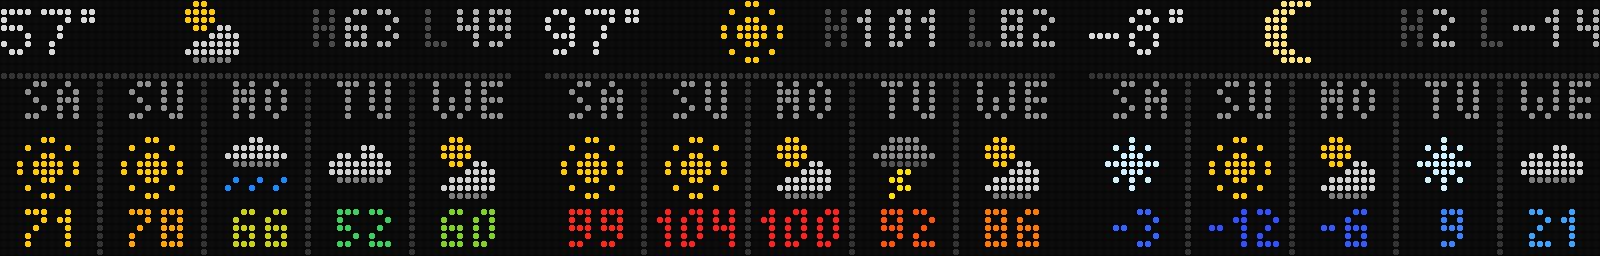
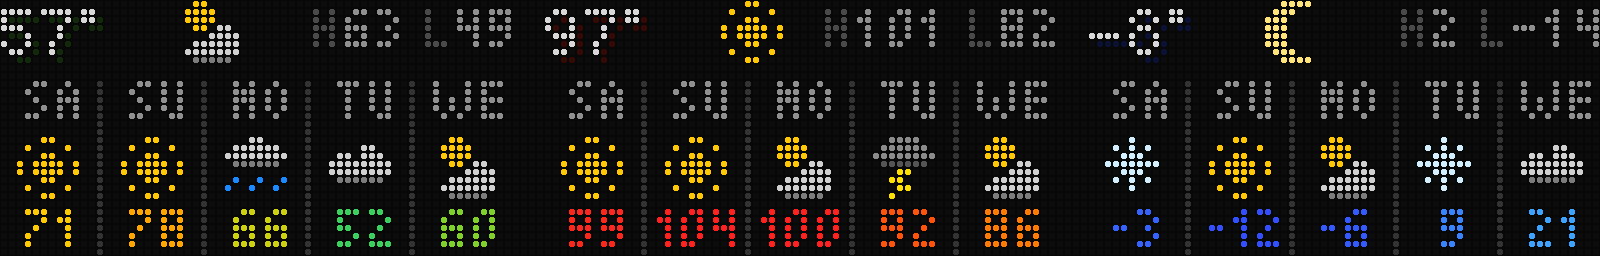
Board: 5-day top row shadow, dimmer high/low, no rule
The current temperature (and its degree sign) gets a 1px down-right
shadow in its temperature color at 20%, as on the conditions screen. The
high/low numbers drop to grey #8f8f8f. The row 9 rule is removed; the
day dividers stand alone again.

Claude-Session: https://claude.ai/code/session_01A3rhig7LG9zSFWymE8NacA

diff --git a/server/board/draw.test.js b/server/board/draw.test.js
@@ -498,14 +498,20 @@ test('weather 5-day: today on top, five day columns between dividers; a warning 
   const rad = (w) => ({ on: false, frames: [], ft: [], timeBox: [40, 0, 24, 22], split: false, wx: w });
   const f = draw.render({ now, bright: 100, warn: null, radar: rad(wx) }, { screen: 'weather', now, frames: {} });
   assert.ok(count(f, draw.C.label, 0, 0, 20, 7) > 20, 'current temperature in label white');
+  // Its shadow: 1px down-right, 20% of the temperature color, only where the
+  // white doesn't cover it (57 is green-ish).
+  const shadow = [];
+  for (let y = 0; y <= 8; y++) for (let x = 0; x <= 20; x++) { const c = f.get(x, y); if (c.some((v) => v) && hex(c) !== draw.C.label) shadow.push(c); }
+  assert.ok(shadow.length > 5, 'shadow pixels');
+  for (const c of shadow) assert.ok(c[1] > c[0] && Math.max(...c) < 60, `dim green shadow ${c}`);
+  assert.ok(count(f, '#000000', 0, 7, 20, 7) < 21, 'shadow on row 7, under the digits');
+  assert.equal(count(f, '#000000', 0, 8, 63, 8), 64, 'row 8 clear');
   assert.equal(hex(f.get(23, 1)), '#ffc800', 'icon at x22');
-  assert.ok(count(f, '#b0b0b0', 34, 1, 63, 5) > 15, 'high/low numbers');
+  assert.ok(count(f, draw.C.grey, 34, 1, 63, 5) > 15, 'high/low numbers grey');
   assert.ok(count(f, '#4a4a4a', 34, 1, 63, 5) > 5, 'dim H/L letters');
-  assert.ok(count(f, '#b0b0b0', 61, 1, 63, 5) > 0, 'right-aligned to x63');
+  assert.ok(count(f, draw.C.grey, 61, 1, 63, 5) > 0, 'right-aligned to x63');
   for (const x of [12, 25, 38, 51]) for (let y = 10; y <= 31; y++) assert.equal(hex(f.get(x, y)), draw.C.divider, `divider ${x},${y}`);
-  for (let x = 0; x < 64; x++) assert.equal(hex(f.get(x, 9)), draw.C.divider, `rule col ${x}`);
-  assert.equal(count(f, draw.C.divider, 0, 0, 63, 8), 0, 'row 8 clear under the top bar');
-  for (let x = 0; x < 64; x++) assert.deepEqual(f.get(x, 8), [0, 0, 0], `margin col ${x}`);
+  assert.equal(count(f, draw.C.divider, 0, 0, 63, 9), 0, 'no horizontal rule');
   for (let i = 0; i < 5; i++) {
     const x0 = i * 13, x1 = x0 + 11;
     assert.ok(count(f, draw.C.grey, x0, 11, x1, 15) > 8, `day ${i} label`);

diff --git a/server/board/draw.js b/server/board/draw.js
@@ -755,12 +755,13 @@
 
     // ---- 5-day layout (wxView '5day'; mockup docs/board/mockups/weather/5day-final) ----
     // The weather screen without rain when wx carries `days`. Today on rows
-    // 0-7: the temperature (5x7, label white, small degree sign), the icon at x22, `H63 L49` right-aligned (letters dim, numbers
-    // light). Below, a rule on row 9 (row 8 kept clear of the icon) and five
-    // 13px day columns split by dividers hanging from it on rows 10-31:
+    // 0-7: the temperature (5x7, label white, small degree sign, 1px
+    // temperature-colored shadow), the icon at x22, `H63 L49` right-aligned
+    // (letters dim, numbers grey). Below, five 13px day columns split by
+    // dividers on rows 10-31:
     // weekday (rows 11-15), icon (17-24), and the high in its temperature
     // color (rows 27-31).
-    const FD_LETTER = '#4a4a4a', FD_NUM = '#b0b0b0';
+    const FD_LETTER = '#4a4a4a', FD_NUM = C.grey;
     const FD_PITCH = 13;
     // A day's high, centered at cx. Three characters (100+, -10 and below)
     // are 11px in Tom Thumb against 12px between dividers, so they draw
@@ -780,6 +781,10 @@
       }
     }
     function drawFiveDay(f, wx) {
+      // A 1px shadow down and right in the temperature's color (20%, as on
+      // the conditions screen), under the white temperature.
+      const sh = scaleColor(tempColor(wx.temp), 0.2);
+      f.text('small', '°', f.text('5x7', String(wx.temp), 1, 8, sh), 7, sh);
       const x = f.text('5x7', String(wx.temp), 0, 7, C.label);
       f.text('small', '°', x, 6, C.label);
       if (icons.ICONS[wx.icon]) drawIcon(f, wx.icon, 22, 0);
@@ -790,7 +795,6 @@
         hx = f.text('small', ' L', hx, 6, FD_LETTER);
         f.text('small', String(wx.lo), hx, 6, FD_NUM);
       }
-      f.fill(0, 9, 64, 1, C.divider);
       for (let i = 1; i < 5; i++) f.fill(i * FD_PITCH - 1, 10, 1, 22, C.divider);
       wx.days.slice(0, 5).forEach((d, i) => {
         const cx = i * FD_PITCH + 6;

diff --git a/firmware/boardlib/draw.py b/firmware/boardlib/draw.py
@@ -954,7 +954,7 @@ def draw_weather_screen(f, wx, warn, blink, shadow=False):
 # drawFiveDay() in draw.js.
 
 FD_LETTER = hexc('#4a4a4a')
-FD_NUM = hexc('#b0b0b0')
+FD_NUM = C['grey']
 FD_PITCH = 13
 
 
@@ -979,6 +979,8 @@ def draw_day_temp(f, s, cx, base, color):
 
 
 def draw_five_day(f, wx):
+    sh = scale_color(temp_color(wx['temp']), 0.2)
+    f.text('small', '°', f.text('5x7', str(wx['temp']), 1, 8, sh), 7, sh)
     x = f.text('5x7', str(wx['temp']), 0, 7, C['label'])
     f.text('small', '°', x, 6, C['label'])
     if wx.get('icon') in assets.ICONS:
@@ -989,7 +991,6 @@ def draw_five_day(f, wx):
         hx = f.text('small', str(wx['hi']), hx, 6, FD_NUM)
         hx = f.text('small', ' L', hx, 6, FD_LETTER)
         f.text('small', str(wx['lo']), hx, 6, FD_NUM)
-    f.fill(0, 9, 64, 1, C['divider'])
     for i in range(1, 5):
         f.fill(i * FD_PITCH - 1, 10, 1, 22, C['divider'])
     for i, d in enumerate(wx['days'][:5]):

diff --git a/docs/board/design-spec.md b/docs/board/design-spec.md
@@ -231,7 +231,7 @@ Server-side short-name map so labels fit (~6–7 characters next to a two-digit 
 
 - **Weather by default, radar when rain is in the box** (count of colored pixels, with separate on/off thresholds so it doesn't flicker in and out). The screen is `weather` (formerly `radar`); the payload's `radar` object, the radar frame endpoint, and the radar visit/time settings keep their names since they're about the radar loop. Timed visits on the auto screen still only happen while it rains, so they always show the radar.
 - **Weather layout** (Open-Meteo; exact pixels in `contract.md`, Radar): big temperature in the 9x15 Bold digits with a 3x3 ring degree sign, icon top right with the dim condition word under it, divider on row 18, then `FEELS 53°` + wind (`NW 12`) and `H 63° L 49°` + rain chance (a small blue drop + `20%`, the highest hourly chance over the next 6 hours). A **watch or warning replaces the high/low line** with the glyph and `TSTORM WATCH` / `TSTORM WARNING` / `TORNADO WATCH` / `TORNADO WARN` in the warning colors (tornado warning blinks). Preview: `docs/board/previews/mock-weather-screen.png`.
-- **5-day layout** (per board, `wxView` on the phone: Conditions or 5-day): today on top (temperature in 5x7 white, icon, dim `H63 L49` right), then a thin rule and the next five days in 13px columns split by thin vertical dividers hanging from it: two-letter weekday, icon, and the high colored blue (cold) to red (hot). A watch or warning switches back to the conditions layout while it's on, since only that has a line for it. Preview: `docs/board/previews/mock-weather-5day.png`.
+- **5-day layout** (per board, `wxView` on the phone: Conditions or 5-day): today on top (temperature in 5x7 white with a 1px shadow in its temperature color, icon, dim `H63 L49` right), then the next five days in 13px columns split by thin vertical dividers: two-letter weekday, icon, and the high colored blue (cold) to red (hot). A watch or warning switches back to the conditions layout while it's on, since only that has a line for it. Preview: `docs/board/previews/mock-weather-5day.png`.
 - **Configurable location**; crop centered on it (~1.5 mi/pixel).
 - **Pipeline (server):** crop → palette index to dBZ → average linear reflectivity per LED block → levels (15/25/35/45/55 dBZ: dim green, green, yellow, orange, red) → despeckle (drop pixels with <2 colored neighbors) → small indexed image.
 - **Snow (v1):** the whole frame switches to a 3-level snow palette (light blue, pale blue, white) when Open-Meteo reports a snow weather code, or ≤ 32°F without freezing rain. Snow gets its own thresholds (provisional 10/15/20 dBZ, from the Feb 2, 2022 storm) because dry snow reflects much less than rain. A rain/snow line inside the box, and mixed precip, render as one type. Details in `contract.md`.

diff --git a/docs/board/contract.md b/docs/board/contract.md
@@ -230,8 +230,8 @@ From Open-Meteo (`server/board/weather.js`; fixture `fixtures/open-meteo/`), at 
 - **Warning or watch:** replaces the whole rows 26–30 line: glyph (bolt or funnel) at x0, 3px gap, `TSTORM WATCH`, `TSTORM WARNING`, `TORNADO WATCH`, or `TORNADO WARN` (`TORNADO WARNING` doesn't fit), in the warning colors; a tornado warning blinks.
 
 **5-day layout** (`wx.days` present and no `warn`; with a warning or watch the board draws the conditions layout above, which has room for it; `drawFiveDay()` in `draw.js`, `draw_five_day()` in `draw.py`; preview `previews/mock-weather-5day.png`):
-- Today on rows 0–7: `temp` in X11 5x7 at x0, baseline 7, label white, then a Tom Thumb `°` (baseline 6); the `icon` at x22, y0; `H63 L49` (Tom Thumb, baseline 6) right-aligned to x63, the letters `#4a4a4a` and the numbers `#b0b0b0`.
-- A `#333333` rule on row 9, full width (row 8 stays clear under the top row), and five 13px day columns, centers x6, 19, 32, 45, 58, split by `#333333` dividers hanging from it on cols 12, 25, 38, 51 (rows 10–31). Per column: `d` grey centered (baseline 15), the day's icon at center − 4, y17, and `hi` centered (baseline 31) in its temperature color (the `TEMP_STOPS` blend, blue −10°F to red 100°F). Three-character highs (100+, −10 and below) draw tight to keep a pixel off the dividers: `1` advances 3 and the minus is a 2px bar (row 28); every negative high uses that minus. Fewer than five days leave the right columns empty.
+- Today on rows 0–7: `temp` in X11 5x7 at x0, baseline 7, label white, then a Tom Thumb `°` (baseline 6), over a shadow of both drawn 1px right and 1px down in the temperature color (`TEMP_STOPS` blend below) at 20%; the `icon` at x22, y0; `H63 L49` (Tom Thumb, baseline 6) right-aligned to x63, the letters `#4a4a4a` and the numbers grey `#8f8f8f`.
+- Five 13px day columns, centers x6, 19, 32, 45, 58, split by `#333333` dividers on cols 12, 25, 38, 51 (rows 10–31). Per column: `d` grey centered (baseline 15), the day's icon at center − 4, y17, and `hi` centered (baseline 31) in its temperature color (the `TEMP_STOPS` blend, blue −10°F to red 100°F). Three-character highs (100+, −10 and below) draw tight to keep a pixel off the dividers: `1` advances 3 and the minus is a 2px bar (row 28); every negative high uses that minus. Fewer than five days leave the right columns empty.
 
 When `on` is false, `frames` and `ft` are empty and `timeBox` may be `null`.
 
